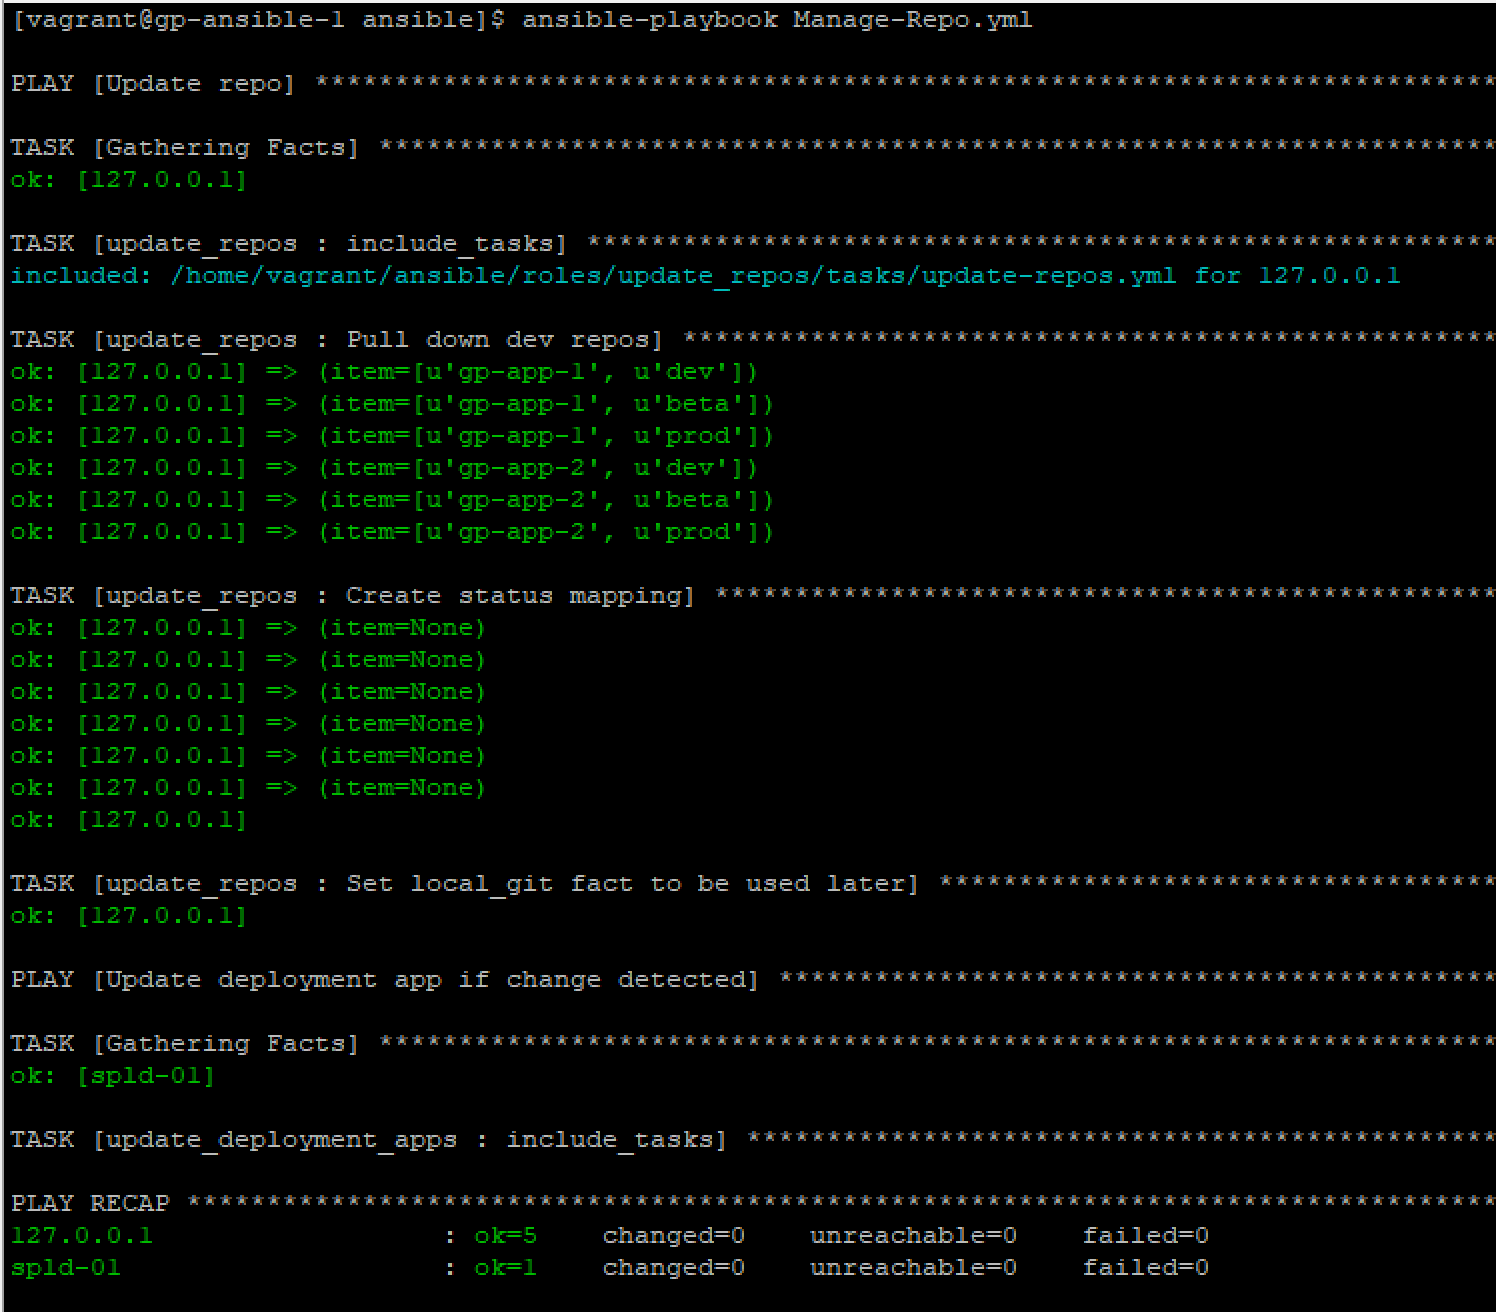
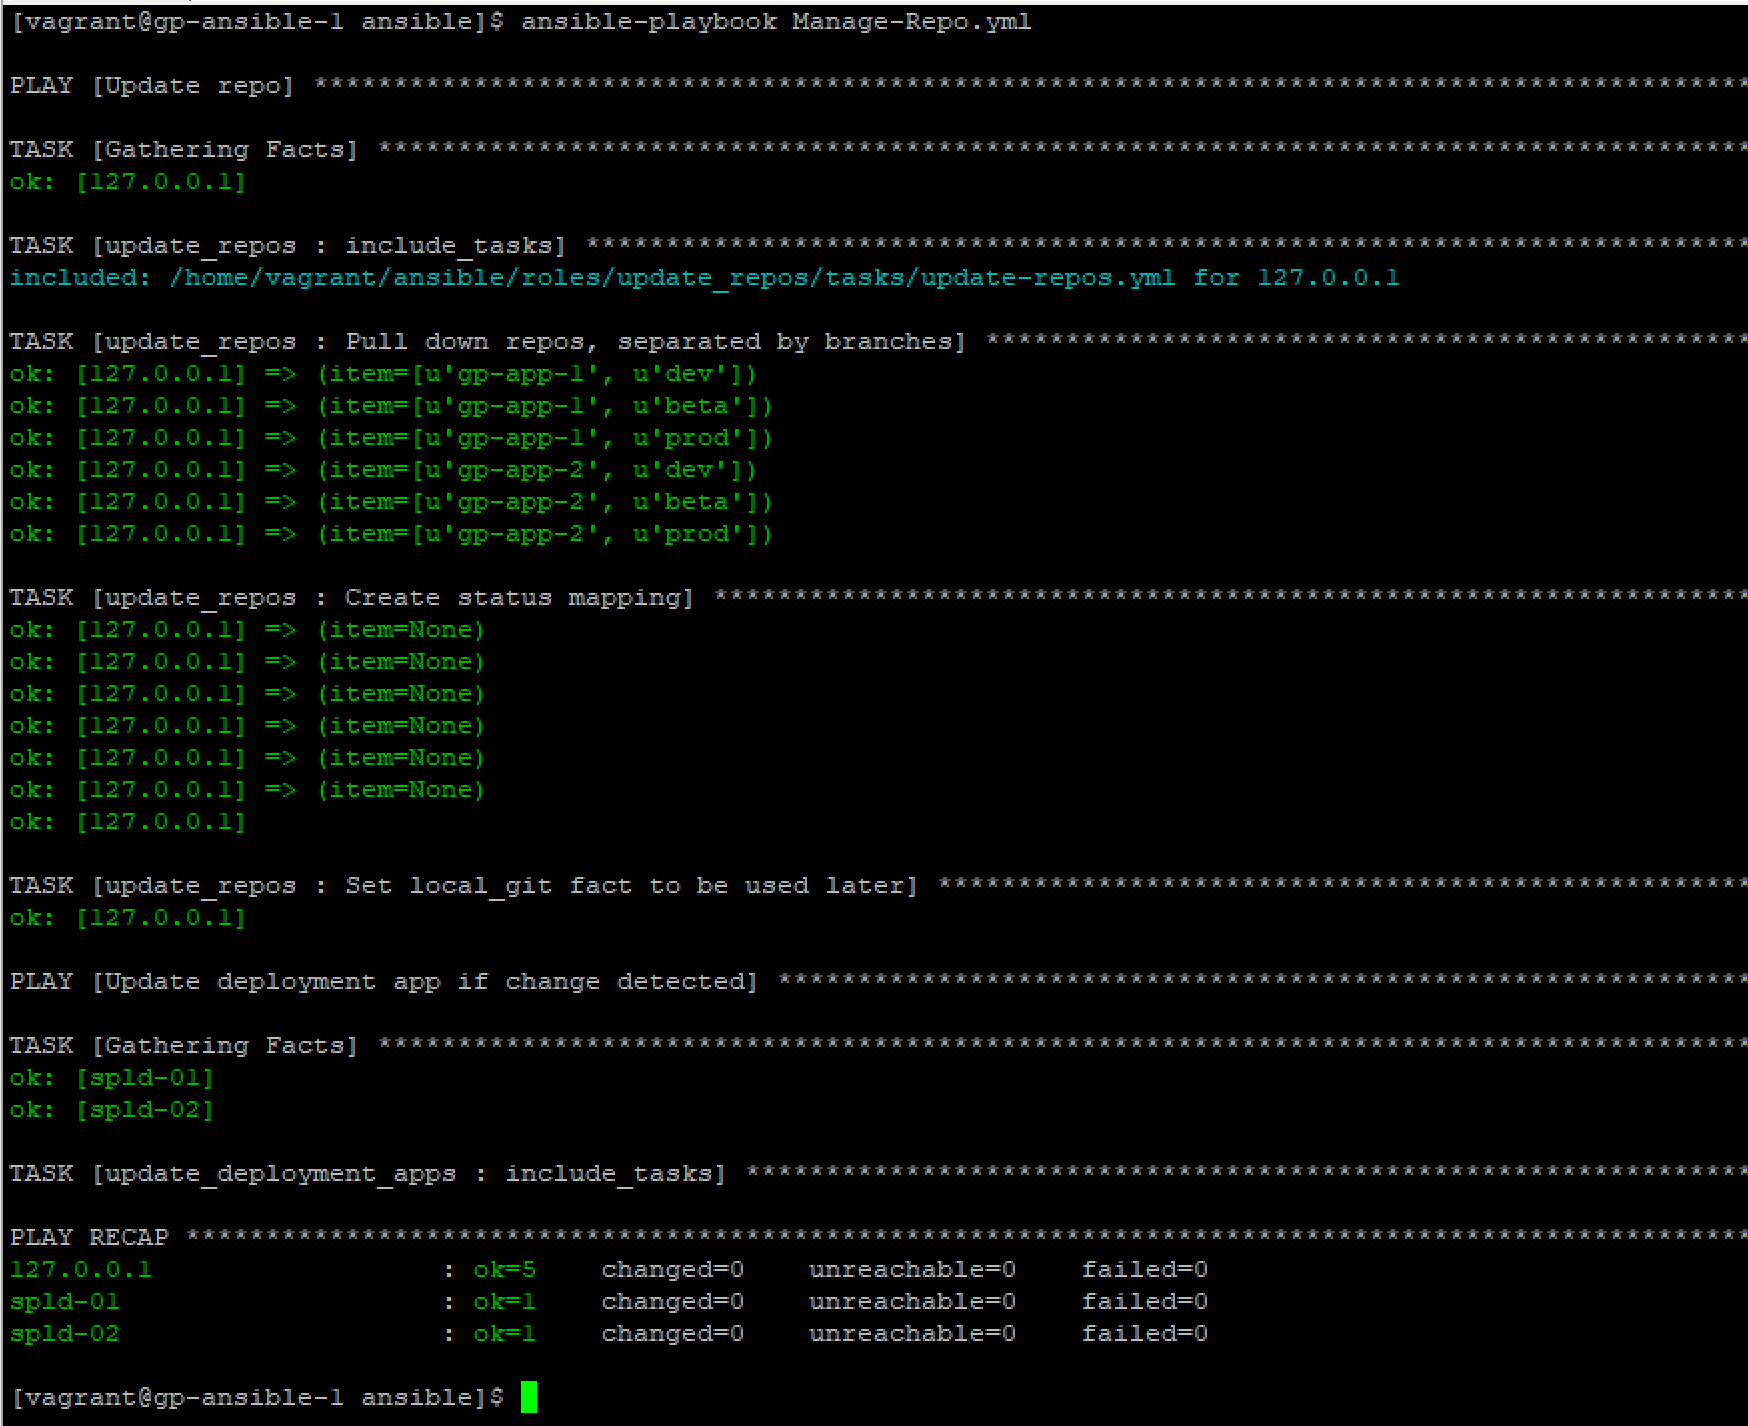
Added more images

Changed region(s): [[0.0, 0.0, 1.0, 1.0], [0.5535, 0.5938, 1.0, 0.625], [0.3997, 0.5938, 0.5227, 0.625]]

diff --git a/Splunk/gp-automation/README.md b/Splunk/gp-automation/README.md
@@ -1,3 +1,7 @@
 Ansible Roles/Plays to automate pulling from a git repo, and updating deployment server with apps whose branches have changed.
 
 ![alt text](images/Beta-Branch-New-Commit-2-DSs.png)
+
+![alt text](images/Play-Run-Update-Apps-No-Change.png)
+
+![alt text](images/App-Status-Dashboard.png.png)
